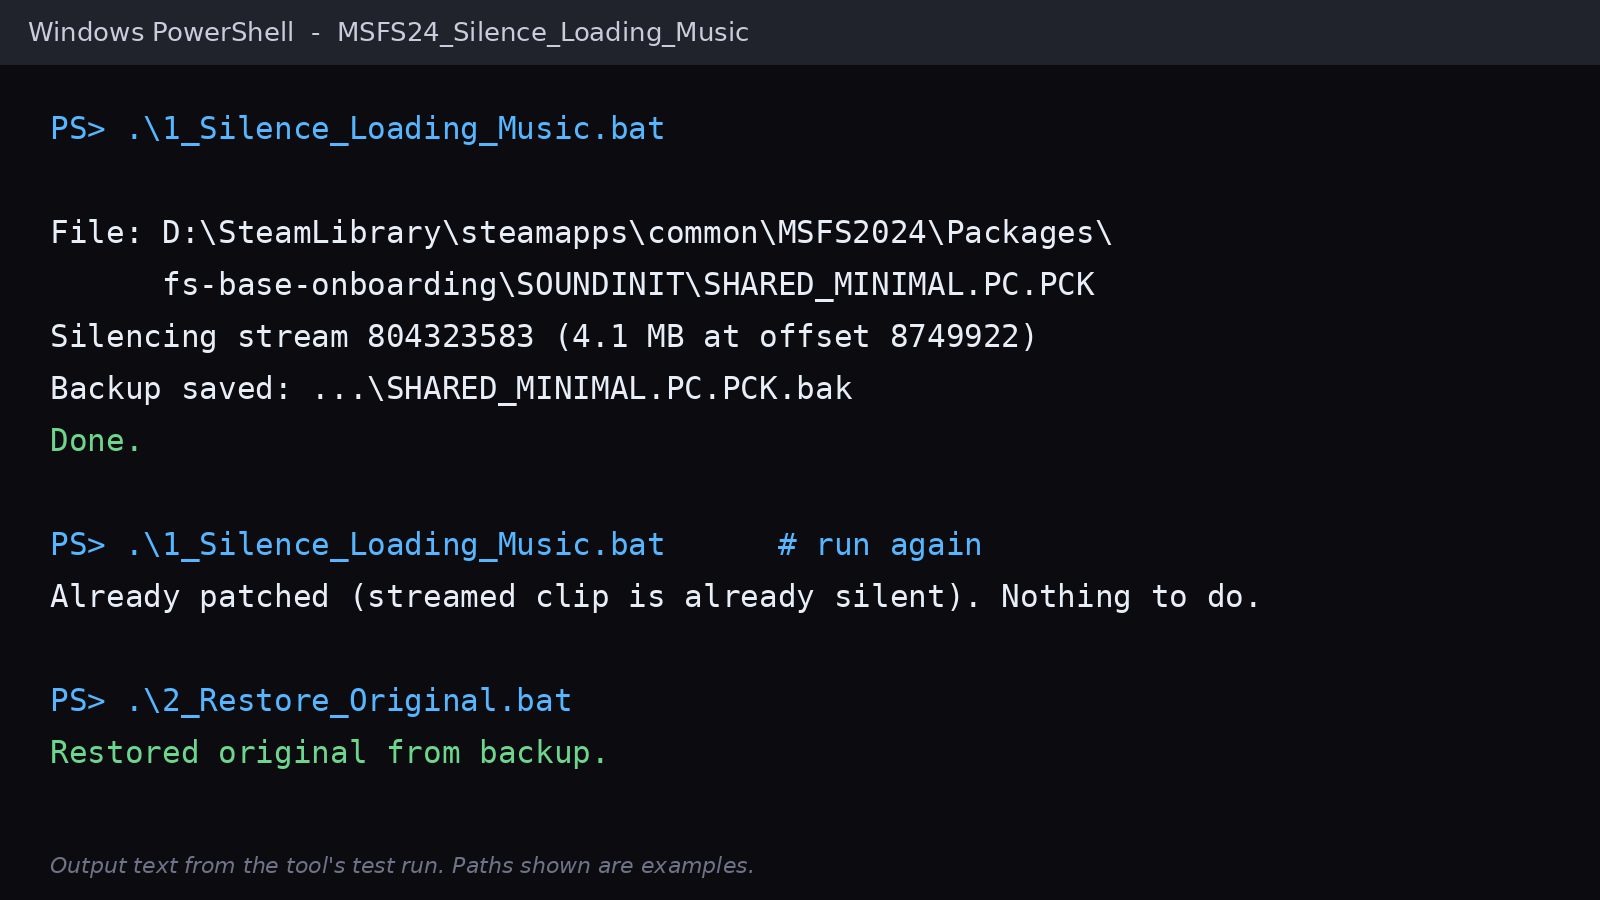
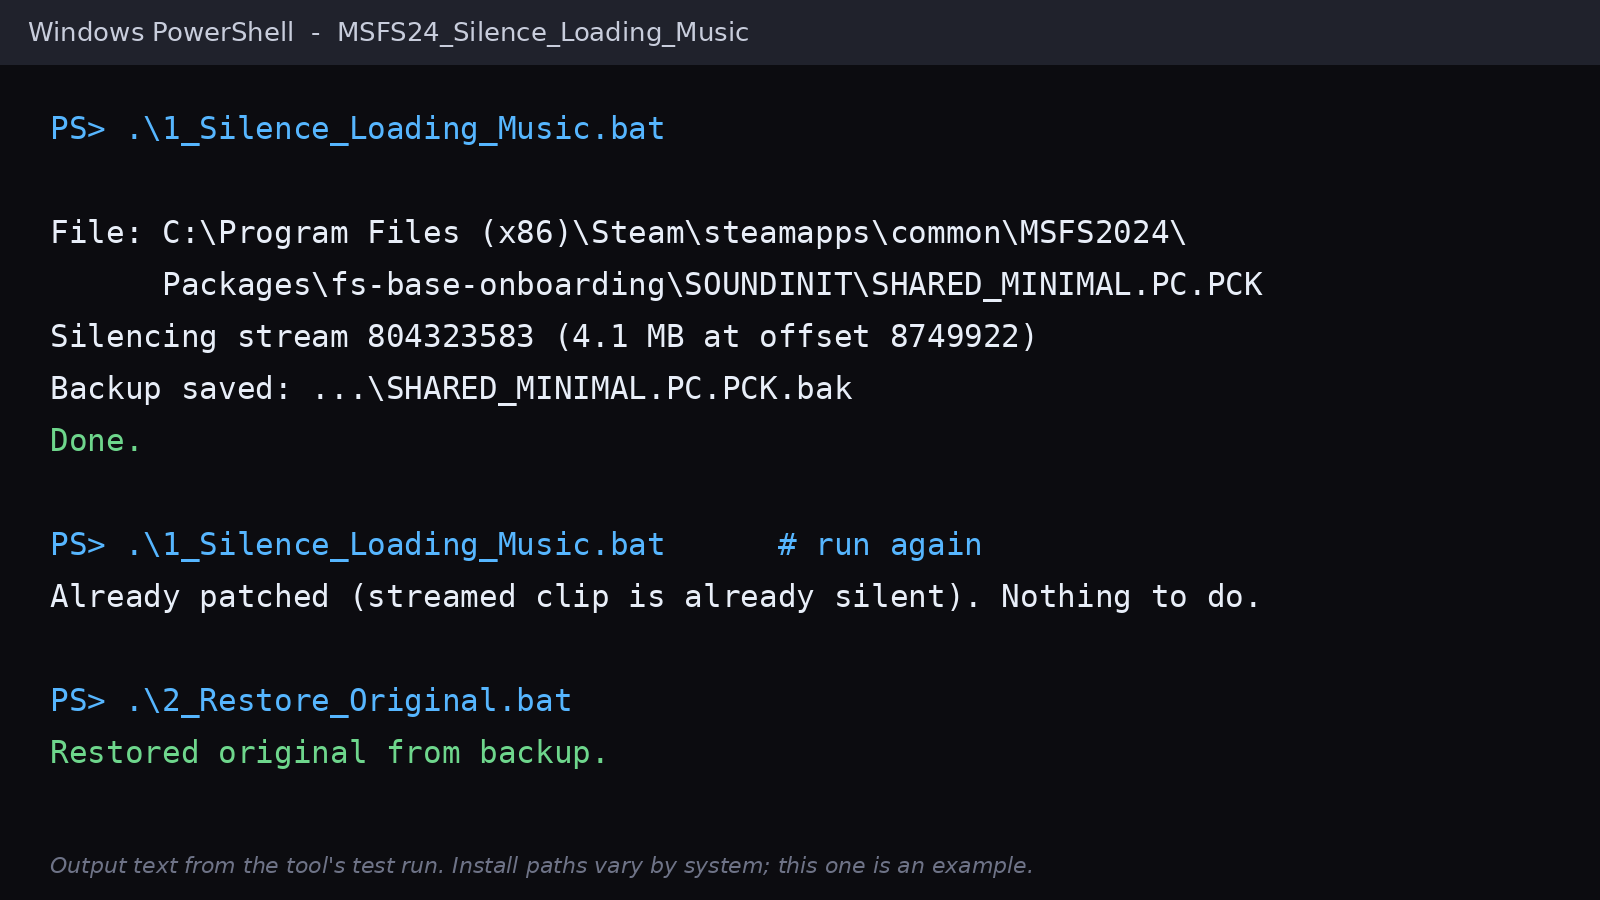
Use generic install paths in docs and messages

Changed region(s): [[0.0938, 0.2489, 0.7812, 0.3422], [0.2812, 0.9333, 0.5312, 0.9956], [0.5625, 0.9333, 0.625, 0.9644]]

diff --git a/README.md b/README.md
@@ -23,11 +23,17 @@ That file is a Wwise `AKPK` container holding four sound banks and one streamed 
 3. Double-click **`1_Silence_Loading_Music.bat`**.
 4. Launch the sim.
 
-It searches all drives for your install. If it can't find it, pass the path:
+It searches all drives for your install. If it can't find it, pass the full path to the file. Your install location will be different from anyone else's, so point it at wherever *your* MSFS 2024 folder is:
 
 ```powershell
-.\msfs24_silence_loading_music.ps1 -Path "D:\SteamLibrary\steamapps\common\MSFS2024\Packages\fs-base-onboarding\SOUNDINIT\SHARED_MINIMAL.PC.PCK"
+.\msfs24_silence_loading_music.ps1 -Path "<your MSFS 2024 folder>\Packages\fs-base-onboarding\SOUNDINIT\SHARED_MINIMAL.PC.PCK"
 ```
+
+Typical install folders (yours may be on another drive or library):
+- **Steam:** `...\steamapps\common\MSFS2024`
+- **Microsoft Store / Xbox app:** `...\XboxGames\Microsoft Flight Simulator 2024\Content`
+
+Tip: in Steam, right-click the game > Manage > Browse local files to open your install folder.
 
 Other options: `-DryRun` (show what it would do), `-Restore` (put the original back; same as `2_Restore_Original.bat`).
 
